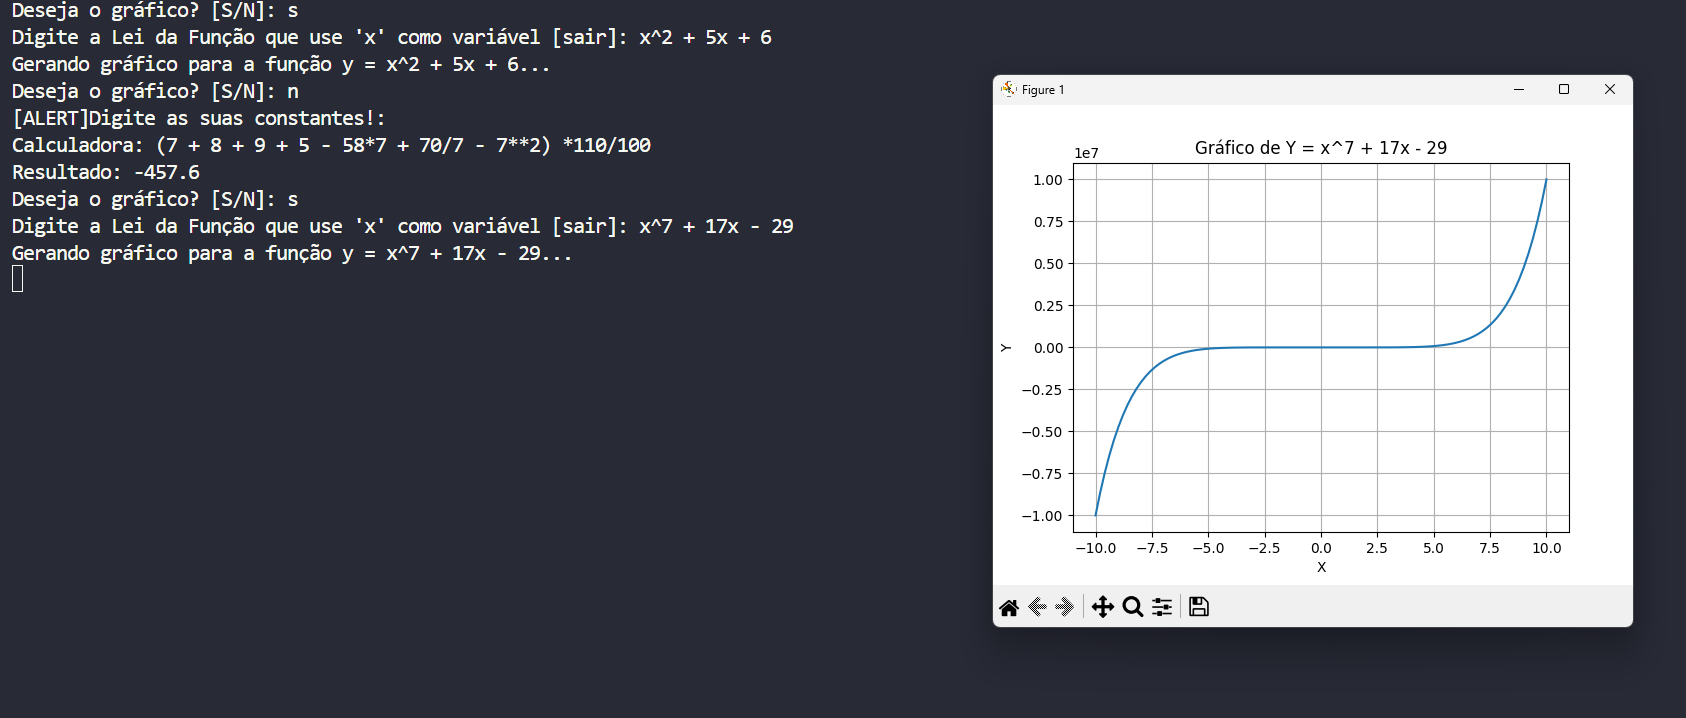
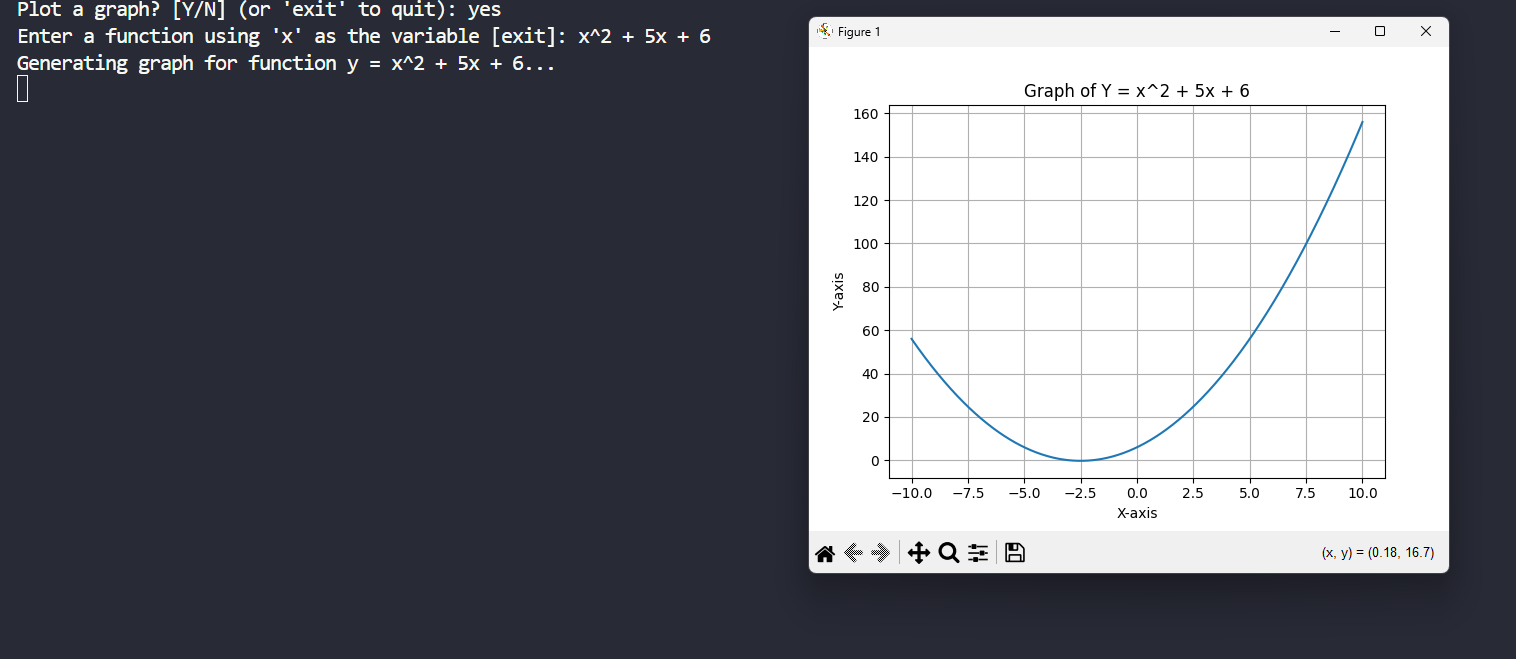
refactor: Translate variables, functions and prompts to Englis; docs: Update README.md with professional English translation

Changed region(s): [[0.527, 0.0, 0.9921, 0.8801], [0.0, 0.0, 0.465, 0.3642]]

diff --git a/main.py b/main.py
@@ -4,50 +4,53 @@ import numexpr as ne
 import re
 
 
-def preparar_formula(formula_str):
-
-    formula_passo_1 = formula_str.replace("^", "**")
-    formula_passo_2 = re.sub(r"(\d)(x)", r"\1*\2", formula_passo_1)
-    formula_final = formula_passo_2.replace(" ", "")
-    return formula_final
+def prepare_expression(expression_string):
+    step_1 = expression_string.replace("^", "**")
+    step_2 = re.sub(r"(\d)(x)", r"\1*\2", step_1)
+    final_expression = step_2.replace(" ", "")
+    return final_expression
 
 
 while True:
-    choice = input("Plot a grafic? [Y/N]: ")
-    if choice.lower() == "sair" or not choice:
-        print("Fim do programa!")
+    choice = input("Plot a graph? [Y/N] (or 'exit' to quit): ")
+
+    if choice.lower() == "exit":
         break
-    elif choice.lower() == "y" or choice.lower() == "yes":
-        formula_str = input("Digite a Lei da Função que use 'x' como variável [exit]: ")
-        if formula_str.lower() == "exit" or not formula_str:
-            print("Fim do programa!")
+
+    if choice.lower() in ["y", "yes"]:
+        formula_string = input("Enter a function using 'x' as the variable [exit]: ")
+
+        if formula_string.lower() == "exit":
             break
-        else:
-            print(f"Gerando gráfico para a função y = {formula_str}...")
-            x = np.linspace(-10, 10, 100)
-            try:
-                y = ne.evaluate(preparar_formula(formula_str))
-            except Exception as e:
-                print("[ERROR] Algo saiu errado!")
-                continue
+
+        print(f"Generating graph for function y = {formula_string}...")
+        x = np.linspace(-10, 10, 1000)
+
+        try:
+            formatted_formula = prepare_expression(formula_string)
+            y = ne.evaluate(formatted_formula)
 
             plt.plot(x, y)
-            plt.title(f"Gráfico de Y = {formula_str}")
-            plt.xlabel("X")
-            plt.ylabel("Y")
+            plt.title(f"Graph of Y = {formula_string}")
+            plt.xlabel("X-axis")
+            plt.ylabel("Y-axis")
             plt.grid(True)
             plt.show()
 
-    elif choice.lower() == "n" or choice.lower() == "no":
-        print("[ALERT] Digite as suas constantes!: ")
-        conta_str = input("Calculadora: ")
-        try:
-            calculo = ne.evaluate(conta_str)
-            print(f"Result: {calculo}")
         except Exception as e:
-            print("[ERROR] Cuidado ao digitar suas constantes!")
+            print(f"[ERROR] Could not plot the graph. Details: {e}")
+            continue
+
+    elif choice.lower() in ["n", "no"]:
+        expression_str = input("Calculator: Enter an expression to evaluate: ")
+        try:
+            result = ne.evaluate(prepare_expression(expression_str))
+            print(f"Result: {result}")
+        except Exception as e:
+            print(f"[ERROR] Could not calculate. Details: {e}")
             continue
 
     else:
-        print("[ERROR] Faça uma choice!")
-        continue
+        print("[ERROR] Invalid choice. Please enter Y or N.")
+
+print("Program finished.")

diff --git a/README.md b/README.md
@@ -1,64 +1,65 @@
-# 📈 Mini-GeoGebra: Calculadora e Plotter de Funções
 
-![Screenshot do Mini-GeoGebra em ação](screenshot.png)
+# 📈 Mini-GeoGebra: Calculator and Function Plotter
 
-## 📄 Descrição
+![Mini-GeoGebra in action](screenshot.png)
 
-Este projeto é uma ferramenta multifuncional desenvolvida em Python que serve tanto como uma calculadora de linha de comando quanto como um plotter para funções matemáticas de uma variável (`x`). O objetivo é fornecer uma interface simples e amigável para realizar cálculos rápidos e visualizar o comportamento de diferentes funções em um gráfico 2D.
+## 📄 Description
 
-Este projeto foi desenvolvido como parte da minha jornada de estudos em Ciência de Dados e como Matemático, aplicando conceitos de lógica de programação, manipulação de strings com Regex e o uso de bibliotecas fundamentais do ecossistema Python.
+This project is a multi-purpose tool developed in Python that serves as both a command-line calculator and a plotter for single-variable mathematical functions (`x`). The goal is to provide a simple and user-friendly interface to perform quick calculations and visualize the behavior of different functions on a 2D graph.
 
-## ✨ Funcionalidades Principais
+This project was developed as part of my learning journey in Data Science and as a Mathematician, applying concepts of programming logic, string manipulation with Regex, and the use of fundamental libraries from the Python ecosystem.
 
-- **Modo Duplo:** Escolha entre usar a ferramenta como uma calculadora para expressões diretas ou como um plotter de gráficos.
-- **Plotter de Funções:** Insira qualquer função de `x` e visualize seu gráfico instantaneamente.
-- **Sintaxe Amigável:** Ela aceita:
-  - `x^2` para potência (convertido para `x**2`).
-  - `5x` para multiplicação implícita (convertido para `5*x`).
-- **Avaliação Segura:** Utiliza a biblioteca `numexpr` para calcular as expressões, evitando os riscos de segurança da função `eval()`.
+## ✨ Key Features
 
-## 🛠 Tecnologias Utilizadas
+- **Dual Mode:** Choose between using the tool as a direct expression calculator or as a function plotter.
+- **Function Plotter:** Enter any function of `x` and instantly visualize its graph.
+- **User-Friendly Syntax:** The parser accepts common shortcuts:
+  - `x^2` for exponents (is converted to `x**2`).
+  - `5x` for implicit multiplication (is converted to `5*x`).
+- **Safe Evaluation:** Uses the `numexpr` library to evaluate expressions, avoiding the security risks of the `eval()` function.
+
+## 🛠 Tech Stack
 
 - **Python**
-- **NumPy:** Para a geração de arrays e cálculos numéricos.
-- **Matplotlib:** Para a visualização e plotagem dos gráficos.
-- **NumExpr:** Para a avaliação segura das expressões matemáticas.
-- **Regex (módulo `re`):** Para o pré-processamento e correção das fórmulas inseridas pelo usuário.
+- **NumPy:** For array generation and numerical computations.
+- **Matplotlib:** For data visualization and plotting.
+- **NumExpr:** For the safe evaluation of mathematical expressions.
+- **Regex (`re` module):** For preprocessing and correcting user-input formulas.
 
-## 🚀 Como Executar o Projeto
+## 🚀 How to Run This Project
 
-Para rodar este projeto na sua máquina, siga os passos abaixo:
+To run this project on your local machine, follow the steps below:
 
-1. **Clone o repositório:**
+1. **Clone the repository:**
 
    ```bash
    git clone [https://github.com/Silea-Dev/mini-geogebra.git](https://github.com/Silea-Dev/mini-geogebra.git)
-   cd nome-do-seu-repositorio
+   cd mini-geogebra
    ```
-2. **Crie um ambiente virtual (Recomendado):**
+2. **Create a virtual environment (Recommended):**
 
    ```bash
    python -m venv venv
-   source venv/bin/activate  # No Windows: venv\Scripts\activate
+   source venv/bin/activate  # On Windows: venv\Scripts\activate
    ```
-3. **Instale as dependências:**
-   **(INSTRUÇÃO: Crie um arquivo chamado `requirements.txt` e coloque dentro dele os nomes das bibliotecas. Para fazer isso, ative seu ambiente virtual e rode o comando: `pip freeze > requirements.txt`)**
+3. **Install the dependencies:**
+   
 
    ```bash
    pip install -r requirements.txt
    ```
-4. **Execute o programa:**
+4. **Run the program:**
 
    ```bash
    python main.py
    ```
 
-## 📈 Próximos Passos (Roadmap)
+## 📈 Roadmap
 
-- [ ] **v2.0:** Implementar a plotagem de múltiplas funções no mesmo gráfico.
-- [ ] Adicionar mais opções de customização para os gráficos (cores, estilos de linha).
-- [ ] Permitir que o usuário defina o intervalo de `x` a ser plotado.
+- [ ] **v2.0:** Implement the plotting of multiple functions on the same graph.
+- [ ] Add more graph customization options (colors, line styles).
+- [ ] Allow the user to define the `x` range to be plotted.
 
-## 📜 Licença
+## 📜 License
 
-Este projeto está sob a licença MIT. Veja o arquivo `LICENSE` para mais detalhes.
+This project is licensed under the MIT License. See the `LICENSE` file for more details.
